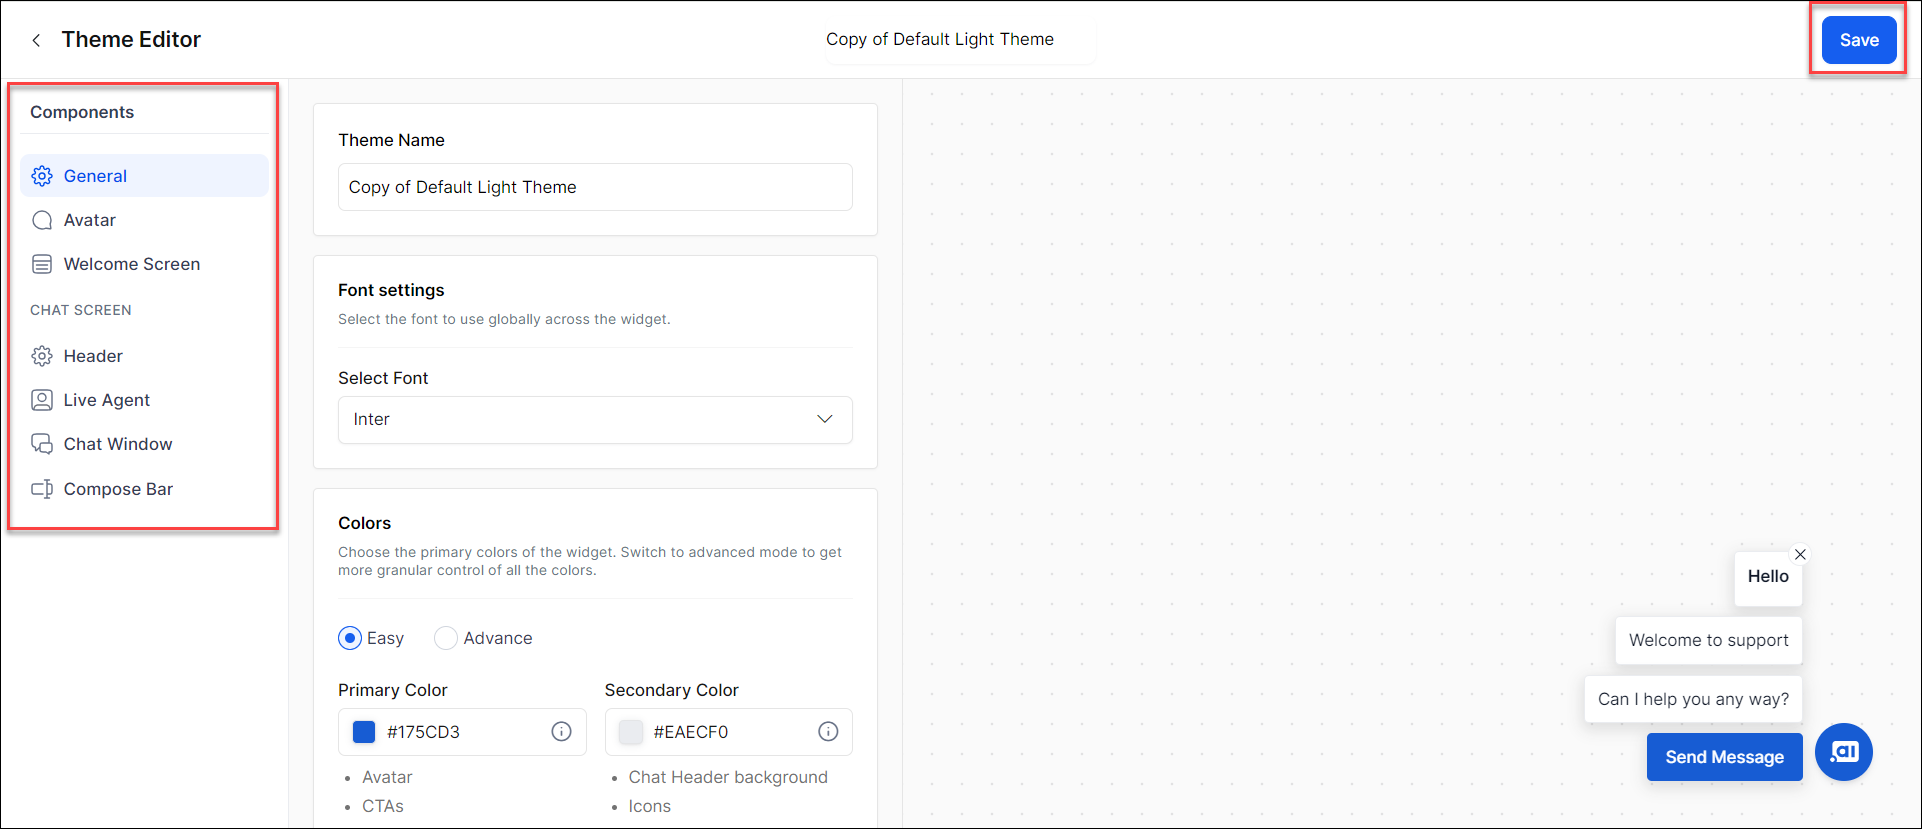
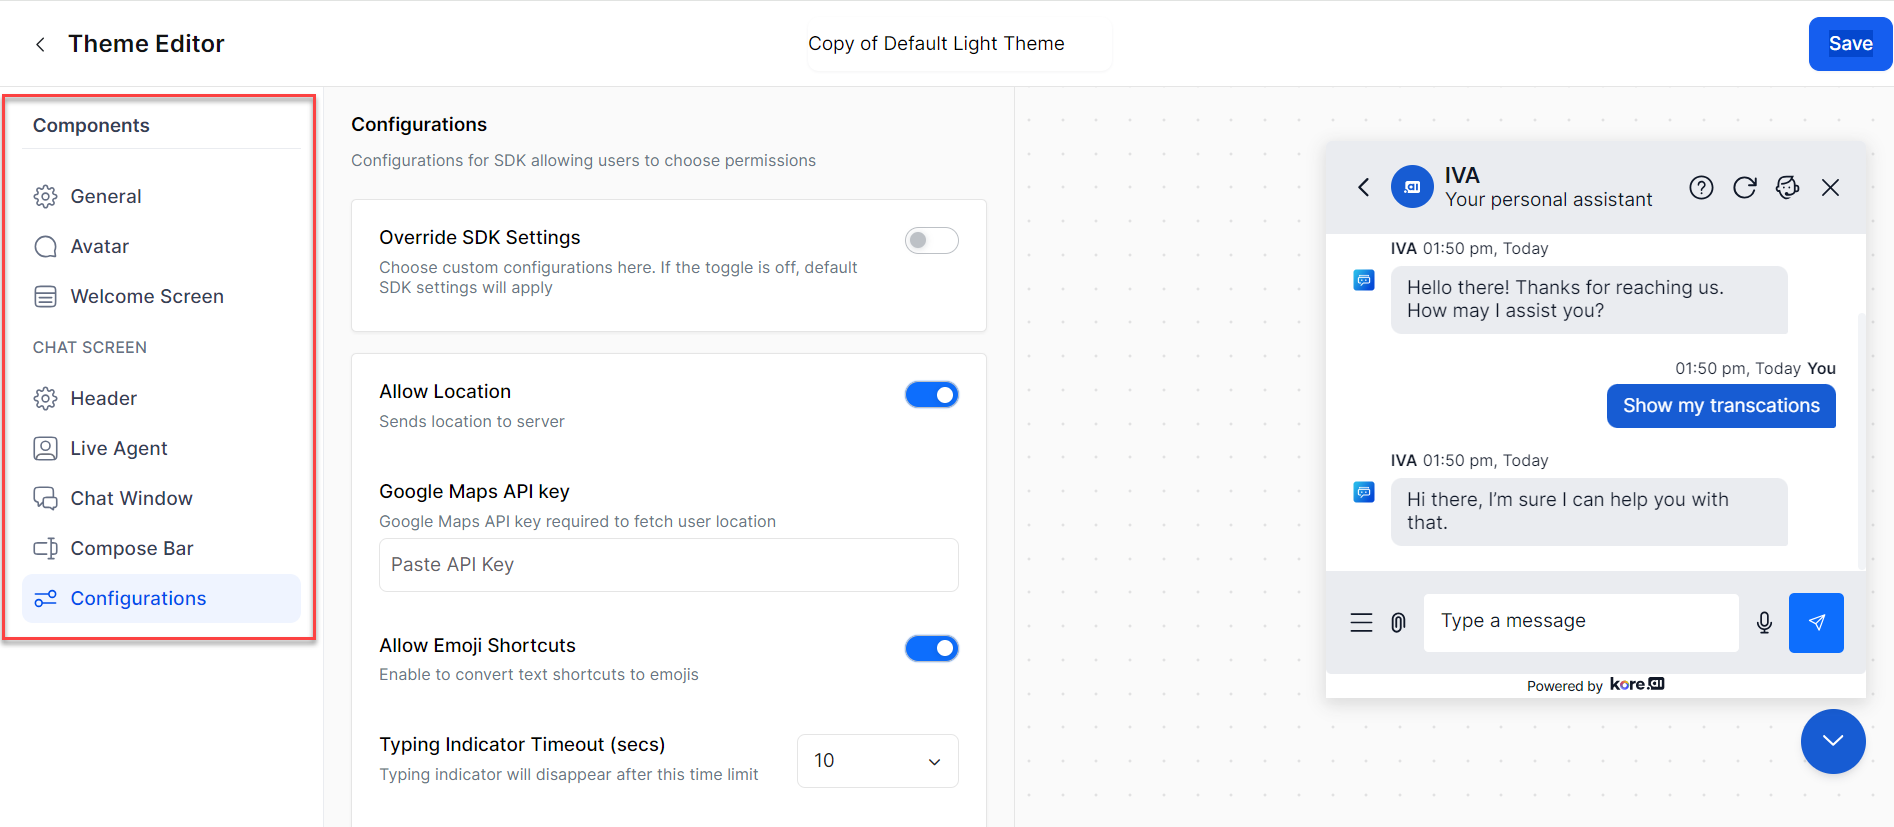
updates

diff --git a/docs/xo/generative-ai-tools/models-library.md b/docs/xo/generative-ai-tools/models-library.md
@@ -111,6 +111,97 @@ Steps to integrate a Custom LLM:
 
 9. The next step is to add[ Prompts](prompts-library.md).
 
+
+
+
+
+
+
+## Configure LLM Integration using Dynamic Variables
+
+The Platform now enables seamless configuration of both pre-built and custom LLMs by allowing you to use content, context, and environment variables, including the secured ones. Secure Variables, particularly for environment settings, function just as smoothly as the current system ensures.
+
+Before configuring the LLM, ensure all necessary variables are set up. For more details, see [Bot Variables](../app-settings/variables/using-bot-variables.md).
+
+!!! note
+
+    Co-Pilot features can use content and environment variables. Dynamic Conversations features can use content, context, and environment variables.tive-ai-tools/models-library.
+
+
+### Key Advantages
+
+**Avoid Misuse of API Keys**: By utilizing secure environment variables for API keys, the system minimizes the risk of unauthorized access. Properly configured permissions restrict visibility and usage to authorized applications or personnel only.
+
+**Track Team-Wise Consumption**: Implementing tracking mechanisms for API key usage allows teams to monitor their consumption, enabling better resource allocation and identifying potential inefficiencies.
+
+**Rotate Your API Keys**: Regularly rotating API keys enhances security by limiting the risk associated with compromised keys. A well-defined rotation schedule ensures that even if a key is leaked, it becomes useless after a predetermined period.
+
+
+### Configure Pre-built LLM Integration using Dynamic Variables
+
+!!! note
+
+    * For Azure OpenAI, you can set the API Key, Sub-Domain, and Model Deployment IDs as dynamic variables.
+    * For OpenAI and Anthropic, only the API Key can be configured as a dynamic variable.
+
+Steps to configure a pre-built LLM using Dynamic Variables:
+
+
+
+1. Go to **Generative AI Tools** > **Models Library**.
+2. Choose the LLM you want to configure. For example, Azure OpenAI.
+3. On the **Authorization** tab, enter the variable for **API Key** and the **User Sub Doman**. Toggle on the required **model** and enter the variable for **Deployment ID**.
+
+    <img src="../images/azurellmdv.png" alt="Dynamic Variables" title="Dynamic Variables" style="border: 1px solid gray; zoom:70%;">
+
+
+
+4. Read the **Policy Guidelines**, select the checkbox, and click **Next**.
+5. On the **Testing** tab, enter the sample values for the API Key, User Sub Domain, and Model key. 
+
+
+    <img src="../images/llmsampletestingdv.png" alt="Dynamic Variables" title="Dynamic Variables" style="border: 1px solid gray; zoom:70%;">
+
+
+6. Click **Save**. The configuration successful message is displayed.
+
+
+### Configure Custom LLM Integration using Dynamic Variables
+
+!!! note
+
+    For Custom LLM, you can configure Endpoint, Authorization, and Headers fields as dynamic variables.
+
+Steps to integrate a Custom LLM using Dynamic Variables:
+
+
+
+1. Go to **Generative AI Tools** > **Models Library**.
+2. Click **Custom LLM**.
+3. On the **Configuration** tab, enter the details like **Integration Name** and **Model Name**. Enter the variable for **Endpoint** and **Headers**. 
+
+
+    <img src="../images/dvcustomllm.png" alt="Dynamic Variables" title="Dynamic Variables" style="border: 1px solid gray; zoom:70%;">
+
+4. Read the **Policy Guidelines**, select the checkbox, and click **Next**.
+5. On the Testing **tab**, enter the sample endpoint and header values. Enter the test payload and then click **Test** to check the connection. If the LLM connection is successful during the test call, it displays a confirmation message. If not, it shows an error message. 
+
+    <img src="../images/dvcustomllm1.png" alt="Dynamic Variables" title="Dynamic Variables" style="border: 1px solid gray; zoom:70%;">
+
+6. On a successful connection, the save option is enabled. 
+
+
+    <img src="../images/dvcustomllm2.png" alt="Dynamic Variables" title="Dynamic Variables" style="border: 1px solid gray; zoom:70%;">
+
+7. Click **Save**. The configuration successful message is displayed.
+
+
+
+
+
+
+
+
 ## Kore.ai XO GPT Integration
 
 The new Kore.ai XO GPT Models module provides fine-tuned large language models optimized for enterprise conversational AI applications. These models have been evaluated and fine-tuned to be accurate, safe, and efficient for production deployment. Current capabilities include Conversation Summarization, User Query Rephrasing, Vector Generation and Answer Generation.
@@ -118,6 +209,7 @@ The new Kore.ai XO GPT Models module provides fine-tuned large language models o
 !!! note
 
     The Kore.ai XO GPT Module is currently available only for English language interactions. The respective models are available only in our global deployment (US Cloud – https://bots.kore.ai).
+
 
 
 ### Enable Kore.ai XO GPT Integration

diff --git a/docs/xo/automation/natural-language/training/machine-learning-engine.md b/docs/xo/automation/natural-language/training/machine-learning-engine.md
@@ -241,10 +241,10 @@ You can choose between the following types. Based on the selection additional co
     The Universal Sentence Encoder encodes text into high-dimensional vectors that can be used for text classification, semantic similarity, clustering, and other natural language tasks. The model is trained and optimized for greater-than-word length text, such as sentences, phrases, or short paragraphs. It is trained on a variety of data sources and a variety of tasks with the aim of dynamically accommodating a wide variety of natural language understanding tasks. The input is the variable-length English text and the output is a 512-dimensional vector.
 
 * **KAEN** (Kore Advanced Embeddings Network) – Models trained with Sentence Embeddings alone can not understand the domain-specific terminology especially if the words from training are non-dictionary words. Kore.ai provides a model which can understand the meaning of the sentence and at the same time give importance to the domain-specific terminology. There are two parallel layers in work in this model – one to optimize the weights against the sentence embeddings and the other to optimize the word importance for a given sentence.  The activation function used for these two layers is RReLU (Randomized Leaky Rectified Linear Unit, [Learn more](https://arxiv.org/pdf/1505.00853.pdf){:target="_blank"}).
-* **Zero-Shot Model with OpenAI**: Helps define descriptive intents that the VA identifies in the user utterance based on semantic similarity without requiring training data.
+* **Zero-Shot Model**: Helps define descriptive intents that the VA identifies in the user utterance based on semantic similarity without requiring training data.
 * **Few-shot Model (Kore.ai Hosted Embeddings)**: Helps define more number of granular intents that describe the user’s intention in the utterance more accurately with limited training requirement.
 
-### Zero-Shot Learning Model with OpenAI
+### Zero-Shot Learning Model
 
 !!! Important
 
@@ -279,7 +279,7 @@ Thus, the intents have to be defined very well. This approach is well-suited for
     * Bot Synonyms and stop words are not used for intent detection.
     * When ZSL is enabled, all the matches from the ML engine are definite.
     * The **Definite Score** is changed to 80% by default for ZSL based on the NLP performance and accuracy.
-    * Only the **_Incorrect Patterns_** and **_Wrong Entity Annotation_** goal-driven validations are enabled when **_Zero-Shot Learning Model with OpenAI_** is enabled.
+    * Only the **_Incorrect Patterns_** and **_Wrong Entity Annotation_** goal-driven validations are enabled when **_Zero-Shot Model_** is enabled.
 
 **How it works**
 
@@ -323,13 +323,13 @@ When you enable **ZSL network type** for an existing bot, the system does not id
 To enable the **ZSL** model, follow the steps below:
 
 1. Navigate to **Natural Language > NLU Config > Machine Learning**.
-2. Select **_Zero-Shot Model with OpenAI_** in the dropdown list for **Network Type**, and click **Save**.
+2. Select **_Zero-Shot Model_** in the dropdown list for **Network Type**, and click **Save**.
 
     <img src="../images/zero-shot-model-selection-window.png" alt="zero shot model" title="zero shot model" style="border: 1px solid gray; zoom:75%;">
 
 **Testing the Utterance**
 
-To test the utterance for the **Zero-Shot Learning Model with OpenAI** Network Type, follow the steps below:
+To test the utterance for the **Zero-Shot Model** Network Type, follow the steps below:
 
 1. Navigate to **Testing** > **Utterance Testing**.
 2. Type the utterance.
@@ -499,7 +499,7 @@ When the **Bot Synonyms** option is enabled, the following happens:
 
 ### NLU Language Selection
 
-When you select the **Zero-shot Model with OpenAI** or **Few-shot Model** Network Types to train the intent models (on the **_Engine Tuning > Machine Learning_** page), you must ensure that the NLU Language enabled is **_English_** (default) under **Configurations** > **Languages**.
+When you select the **Zero-shot Model** or **Few-shot Model** Network Types to train the intent models (on the **_Engine Tuning > Machine Learning_** page), you must ensure that the NLU Language enabled is **_English_** (default) under **Configurations** > **Languages**.
 
 If you enable another language, the system does not allow selecting these two network types, and displays an error message as shown below:
 

diff --git a/docs/xo/channels/add-web-mobile-client.md b/docs/xo/channels/add-web-mobile-client.md
@@ -135,9 +135,10 @@ Steps to change the theme and design:
         ![alt_text](images/sdke4.png  )
 
     2. Select the theme, click **Make Copy** to create a copy, and apply customization. The copy of the selected theme opens in the edit mode.
-        1. Make the required changes in the **Components** and the **Chat Screen** sections. 
+        1. Make the required changes in the **Components** and the **Chat Screen** sections.
+        <img src="../images/sdke2.png" alt="Configuration" title="Configuration Saved" style="border: 1px solid gray; zoom:70%;">
 
-        ![alt_text](images/sdke2.png  )
+        
 
         2. Click **Save**. The custom theme is created and selected as the current theme.
 
